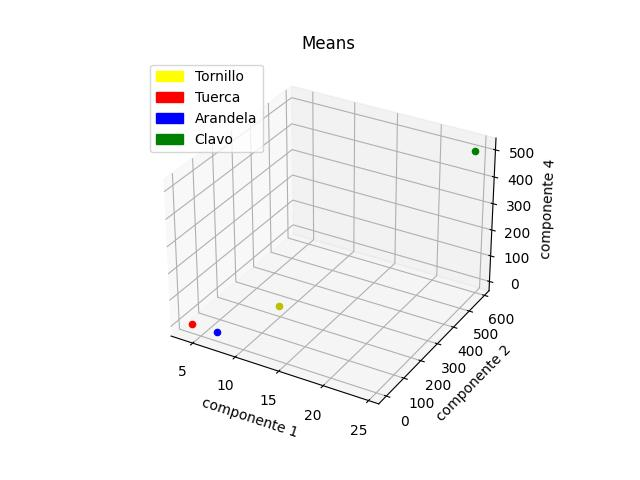
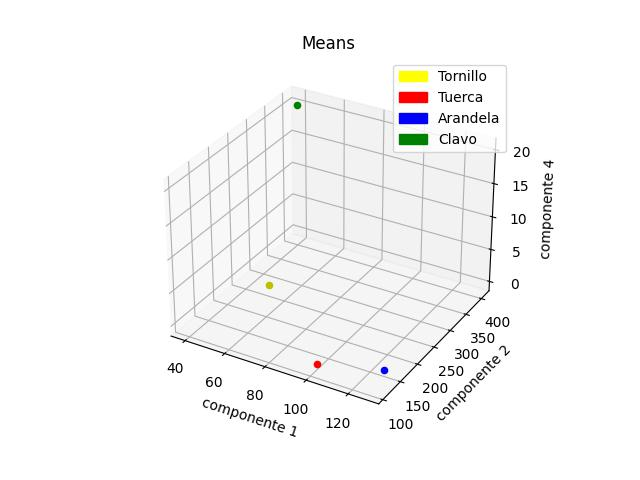
[UPDATE] Parametros de clasificacion

diff --git a/Clasificador-de-imagenes/p7_clasificacion.py b/Clasificador-de-imagenes/p7_clasificacion.py
@@ -3,12 +3,14 @@ import matplotlib.patches as mpatches
 
 plt.rcParams['image.cmap'] = 'gray'
 
-from skimage import io, filters
+from skimage import io, filters, img_as_ubyte
 import numpy as np
 import cv2
 import os
 from datetime import datetime
 import random
+from skimage.measure import regionprops
+
 
 """
 VARIABLES GLOBALES
@@ -72,7 +74,7 @@ def extraccion(image, hacer_transformacion=False):
     """
     if hacer_transformacion:
         image = transformacion(image)
-    
+
     """
     REDIMENSIONAMIENTO DE LA IMAGEN
     Convertir la imagen de 1220x1080 a 500x400
@@ -92,18 +94,35 @@ def extraccion(image, hacer_transformacion=False):
 
     """
     SEGMENTACION
-    Solo funciona para imagenes cortadas -> porque sino el fondo afecta mucho al objeto dentro de la imagen
     """
-    # ret, th = cv2.threshold(aux, 0, 255, cv2.THRESH_BINARY+cv2.THRESH_OTSU)
-    # aux= th
+    ret, th = cv2.threshold(img_as_ubyte(aux), 0, 255, cv2.THRESH_BINARY + cv2.THRESH_OTSU)
 
     """
-    EXTRACCION DE RASGOS
-    Para momentos de Hu
+    EXTRACCION DE CARACTERISTICAS / PROPIEDADES
     """
-    hu = cv2.HuMoments(cv2.moments(aux)).flatten()
+    regions = regionprops(th.astype(int))
 
-    return aux, [hu[0], hu[1], hu[3]]
+    # perimetro = regions[0].perimeter
+    # excentricidad = regions[0].eccentricity
+    # prueba = regions[0].equivalent_diameter
+    # prueba = regions[0].euler_number
+    # prueba = regions[0].area
+    # prueba = regions[0].solidity
+    # prueba = regions[0].bbox_area
+    # area = regions[0].area
+
+    eje_mayor = regions[0].major_axis_length
+    eje_menor = regions[0].minor_axis_length
+    hu = regions[0].moments_hu
+
+
+    #return aux, [hu[0], perimetro, area]
+    #return aux, [hu[0], hu[1], hu[3]]
+
+    #return aux, [eje_menor, eje_mayor, hu[0]]
+    #return aux, [eje_menor, eje_mayor, hu[3]]
+
+    return aux, [eje_menor, eje_mayor, hu[1]]
 
 
 def generar_base_datos():
@@ -526,6 +545,7 @@ def mostrar_apilado(orden_apilado):
 def main(foto4, foto3, foto2, foto1):
     orden = []
 
+    # Clasificacion
     test = generar_base_datos()
     resultado1 = clasifica(foto1, test, 1)
     resultado2 = clasifica(foto2, test, 2)
@@ -568,7 +588,7 @@ if __name__ == '__main__':  # Para que se pueda usar sin interfaz
     orden = []
     flag = True
     cant_cajas = 4
-    fotos_cajas = []    # lista con los valores de las fotos a evaluar
+    fotos_cajas = []  # lista con los valores de las fotos a evaluar
     inicio = ""
     print("\n--------------------------------------------------------------------")
     print("Clasificación de Objetos")
@@ -602,8 +622,8 @@ if __name__ == '__main__':  # Para que se pueda usar sin interfaz
 
     # Devolver orden de Apilamiento
     # La prioridad es el metodo KNN por todas las pruebas hechas en eficiencia
-    aux = resultado[0][0].split(":")    # Le quitamos el "KNN:", para ello lo separamos por :
-    orden.append(aux[1])                # Tomamos el segundo termino de la separacion
+    aux = resultado[0][0].split(":")  # Le quitamos el "KNN:", para ello lo separamos por :
+    orden.append(aux[1])  # Tomamos el segundo termino de la separacion
     aux = resultado[1][0].split(":")
     orden.append(aux[1])
     aux = resultado[2][0].split(":")

diff --git a/Clasificador-de-imagenes/gui_clasificacion.py b/Clasificador-de-imagenes/gui_clasificacion.py
@@ -13,10 +13,10 @@ article = "**Mario Bustillo 2022** | [Github](https://github.com/mabustillo14) |
 enable_queue = False
 
 # Entrada de datos
-image1 = gr.Image(shape=(224, 224), label="Foto - Caja 1")
-image2 = gr.Image(shape=(224, 224), label="Foto - Caja 2")
-image3 = gr.Image(shape=(224, 224), label="Foto - Caja 3")
-image4 = gr.Image(shape=(224, 224), label="Foto - Caja 4")
+image1 = gr.Image(label="Foto - Caja 1")
+image2 = gr.Image(label="Foto - Caja 2")
+image3 = gr.Image(label="Foto - Caja 3")
+image4 = gr.Image(label="Foto - Caja 4")
 
 # Salida de datos
 text1 = gr.Textbox(label="Resultado del Análisis - Caja 1")
